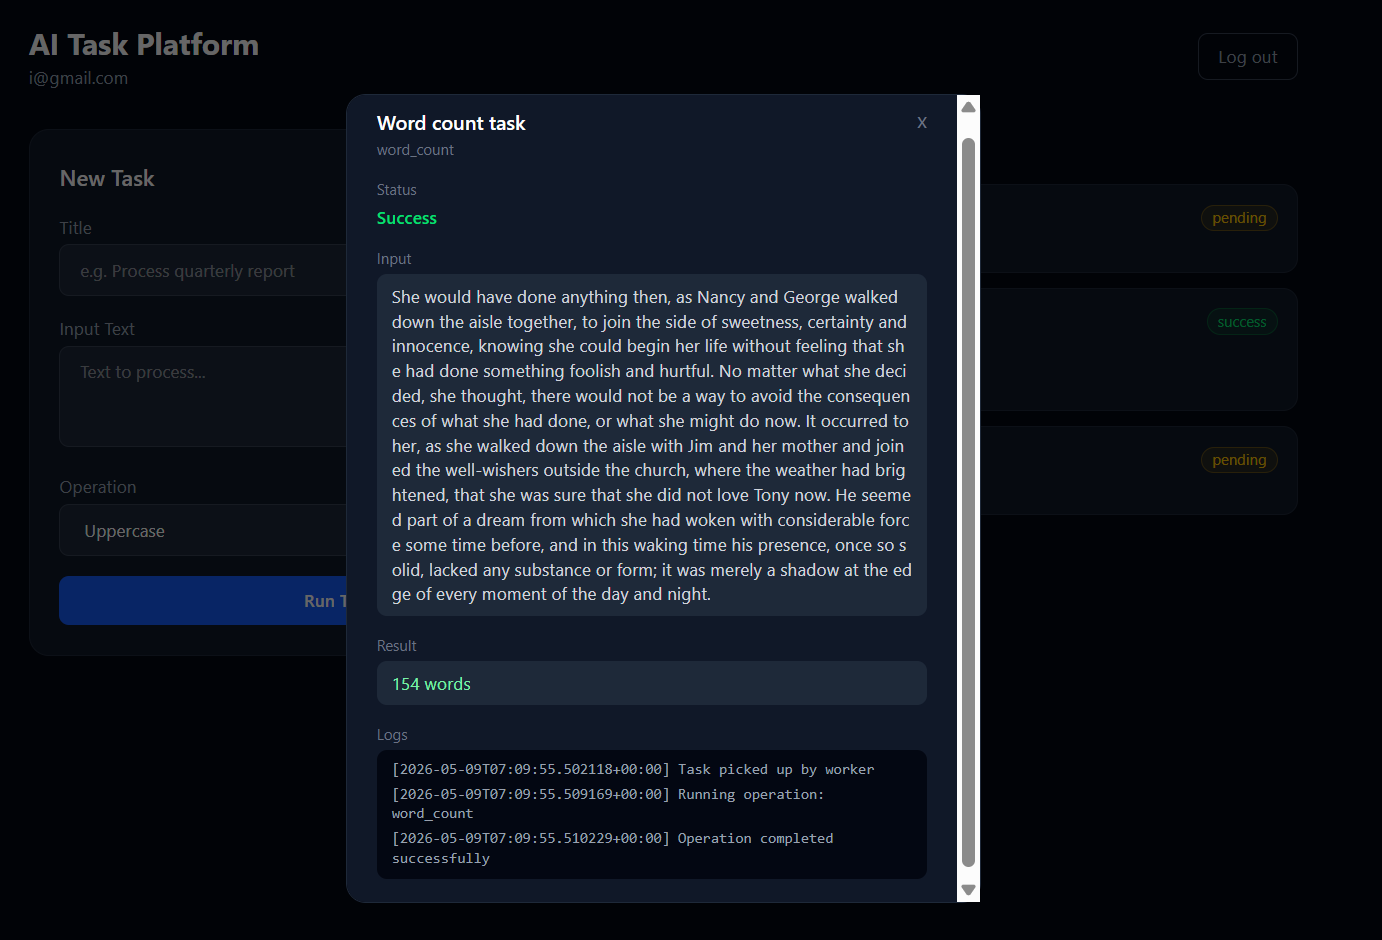
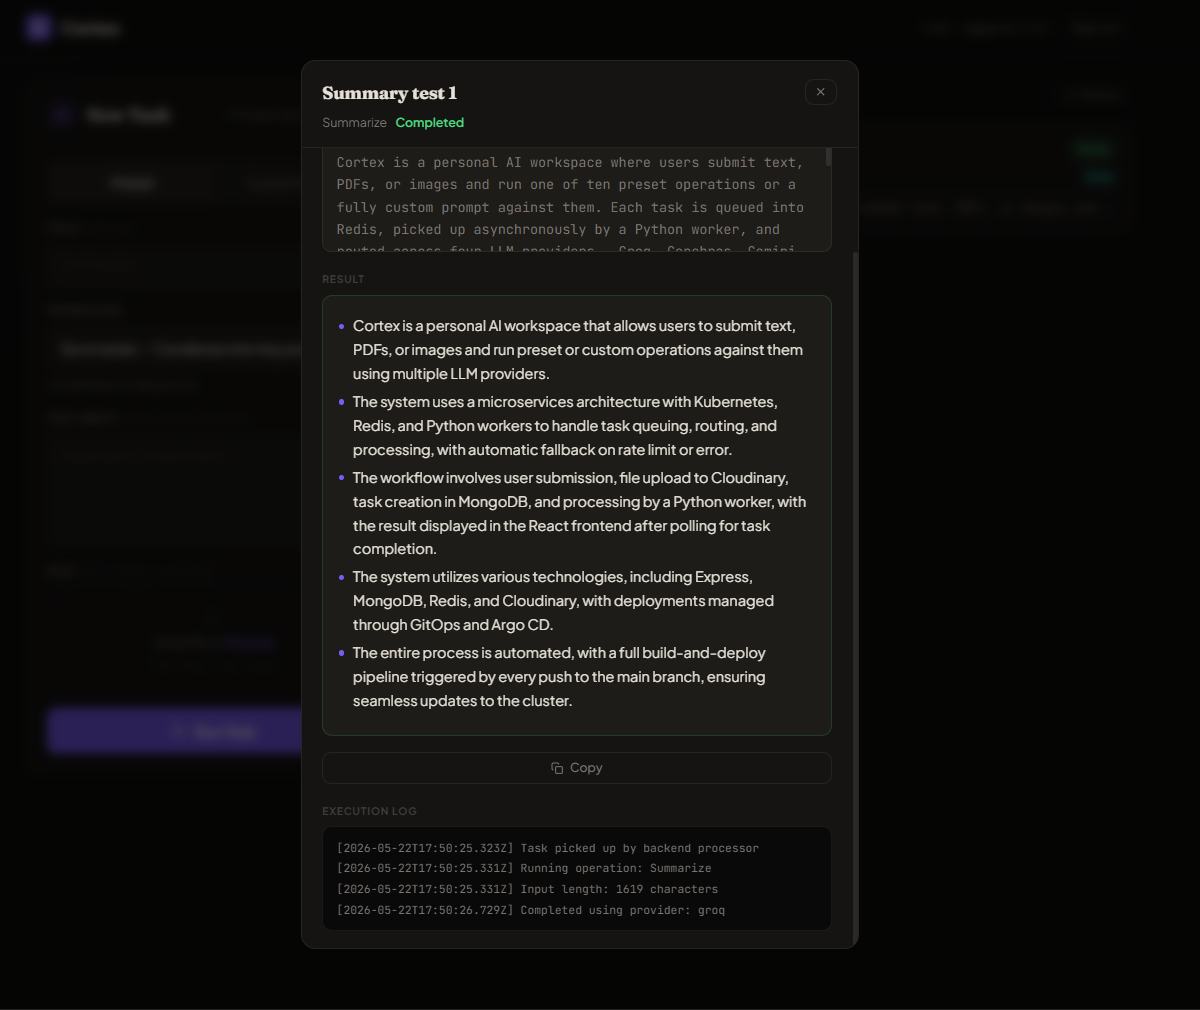
fix: update pdf-parse import to ensure compatibility with default export

diff --git a/backend/src/services/fileProcessor.js b/backend/src/services/fileProcessor.js
@@ -1,4 +1,4 @@
-const pdfParse = require('pdf-parse');
+const pdfParse = require('pdf-parse').default || require('pdf-parse/lib/pdf-parse');
 
 const MAX_PDF_CHARS = 80_000;
 